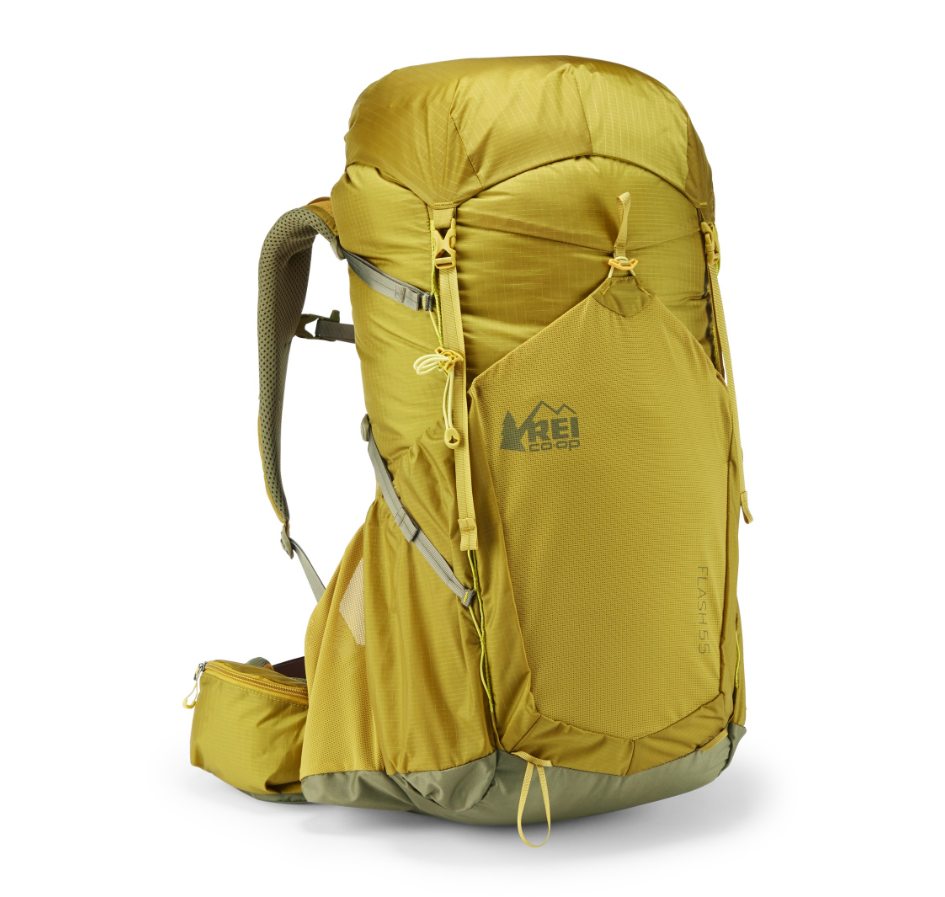
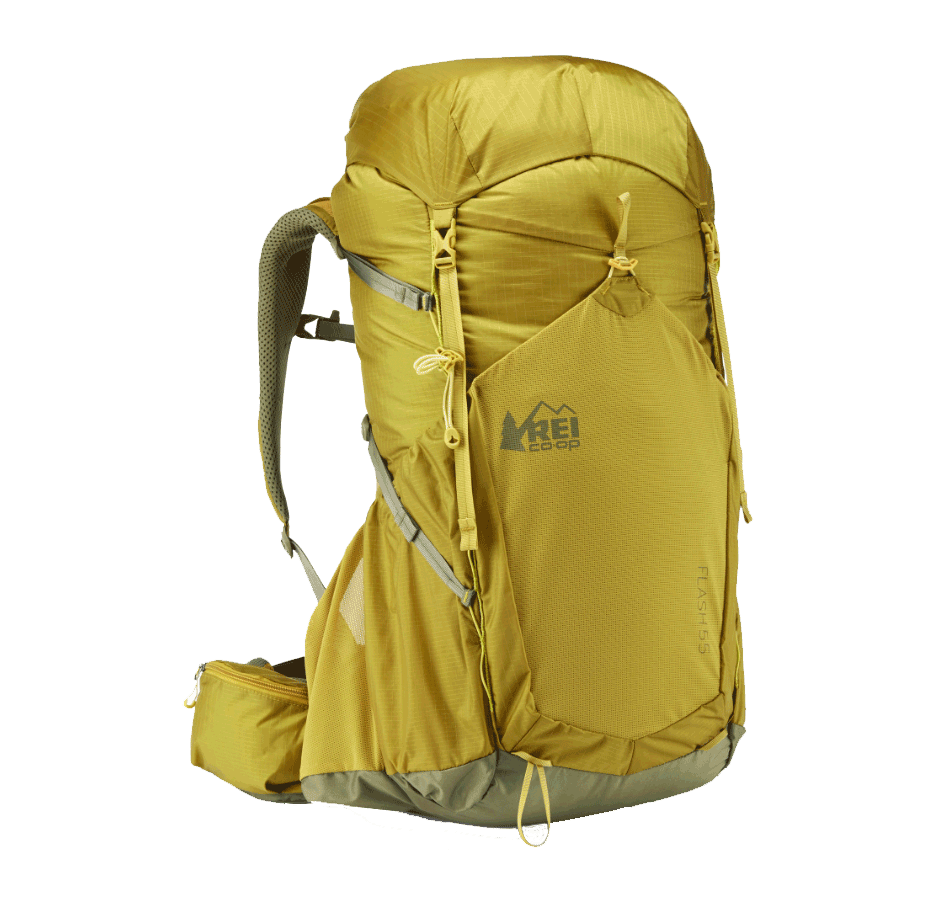
image assetse assets reworke, all converted to png, all size reduced, all made transparent background

Changed region(s): [[0.2148, 0.8428, 0.8286, 0.9677], [0.7672, 0.5619, 0.7979, 0.5931], [0.3069, 0.3434, 0.3376, 0.3746]]

diff --git a/server/index.js b/server/index.js
@@ -41,10 +41,10 @@ app.get('/api/get-products', (req, res, next)=>{
       long_description:
         "This award-winning pack’s roomy main pocket holds your shelter, clothing, sleeping pad and food. There are seven extra pockets - one mesh for wet stuff, two easy-to-reach for water and high-energy snacks, and the rest for whatever else. Made of custom 100 and 200 denier Robic nylon fabric, this tough, light pack delivers a very comfortable carry even with overloaded with 35 pounds of gear.",
       images: [
-        "./images/product_images/Mariposa/Mariposa_1.webp",
-        "./images/product_images/Mariposa/Mariposa_2.webp",
-        "./images/product_images/Mariposa/Mariposa_3.jpeg",
-        "./images/product_images/Mariposa/Mariposa_4.jpeg",
+        "./images/product_images/Mariposa/Mariposa_1.png",
+        "./images/product_images/Mariposa/Mariposa_2.png",
+        "./images/product_images/Mariposa/Mariposa_3.png",
+        "./images/product_images/Mariposa/Mariposa_4.png",
     
       ],
       features: [
@@ -81,10 +81,10 @@ app.get('/api/get-products', (req, res, next)=>{
       long_description:
         "The CDT is our lightest, most basic backpack. With just over 50 liters of available space, the CDT is the largest of three frameless packs we make and is suitable for thru-hikes, day hikes, travel, and any distance back-country forays. The CDT pack continues the tradition of being a reliable, lightweight, and durable backcountry companion. The maximum comfortable load in this pack is approximately 18 pounds or less. No matter what anyone claims, no frameless pack is comfortable over this load and the CDT is no exception. At these loads, the contoured shoulder straps and redesigned hip-belt result in a comfortable carry.",
       images: [
-        "./images/product_images/CDT/cdt_1.jpg",
-        "./images/product_images/CDT/cdt_2.jpg",
-        "./images/product_images/CDT/cdt_3.jpg",
-        "./images/product_images/CDT/cdt_4.jpg"
+        "./images/product_images/CDT/cdt_1.png",
+        "./images/product_images/CDT/cdt_2.png",
+        "./images/product_images/CDT/cdt_3.png",
+        "./images/product_images/CDT/cdt_4.png"
       ],
       features: [
         "Internal Pad Holster",
@@ -119,10 +119,10 @@ app.get('/api/get-products', (req, res, next)=>{
       long_description:
         "When the extra volume is not in use, the 3400’s top can roll down enough to make the overall size of the pack similar to the 2400, but that additional space can come in pretty handy when you need it. The ultralight central vessel of the Windrider is constructed with 100% waterproof Dyneema® Composite Fabrics. The external mesh pockets provide ample room for the equipment you’ll want access to without having to open your pack and dig, and they’re great for drying out wet clothing as you go.",
       images: [
-        "./images/product_images/Windrider/HMG_Windrider_1.jpg",
-        "./images/product_images/Windrider/HMG_Windrider_2.jpg",
-        "./images/product_images/Windrider/HMG_Windrider_3.jpg",
-        "./images/product_images/Windrider/HMG_Windrider_4.jpg"
+        "./images/product_images/Windrider/HMG_Windrider_1.png",
+        "./images/product_images/Windrider/HMG_Windrider_2.png",
+        "./images/product_images/Windrider/HMG_Windrider_3.png",
+        "./images/product_images/Windrider/HMG_Windrider_4.png"
       ],
       features: [
         "Made in Maine",
@@ -156,10 +156,10 @@ app.get('/api/get-products', (req, res, next)=>{
       long_description:
         "The Osprey Levity 60 is the most comfortable and ventilated pack ever made for the lightest loads imaginable. It's perfect for weeklong, or even month long trips. In fact, it's probably not the right pack for you. It's for people who pack lighter, go further, and think smarter. This pack isn't on Instagram, because phones are too heavy, and views look better in your mind anyway. But if you are one of those maniacal gram-counters, look no further. Backed by our All Mighty Guarantee, forever.",
       images: [
-        "./images/product_images/Levity/levity_1.jpg",
-        "./images/product_images/Levity/levity_2.jpg",
-        "./images/product_images/Levity/levity_3.jpg",
-        "./images/product_images/Levity/levity_4.jpg"
+        "./images/product_images/Levity/levity_1.png",
+        "./images/product_images/Levity/levity_2.png",
+        "./images/product_images/Levity/levity_3.png",
+        "./images/product_images/Levity/levity_4.png"
       ],
       features: [
         "Fixed top lid with zippered pocket for organizing smaller items",

diff --git a/client/components/productList.jsx b/client/components/productList.jsx
@@ -52,7 +52,7 @@ class ProductList extends React.Component{
           let imgURL = element.images[0];
           // let imgURL = mariposaImg;
           return (
-            <div key={element.id} className="card col-6">
+            <div key={element.id} className="card bg-primary col-6">
               {/* <div style={{'background-image': `url(${imgURL})`}} className="card-img-top img-fluid px-0 preview-image pt-1 align-self-center"/> */}
               <img src={imgURL} alt="" className="card-img-top img-fluid preview-image align-self-center pt-1"/>
               <div className="card-body">
@@ -84,7 +84,7 @@ class ProductList extends React.Component{
     // console.log('productList state: ', state);
     console.log('products list props: ', this.props)
     return(
-      <div className="pt-4">
+      <div className=" container pt-4">
         <h1 className="pt-4">Products list</h1>
         <div className="card-deck row">
           {this.generateProductList()}
